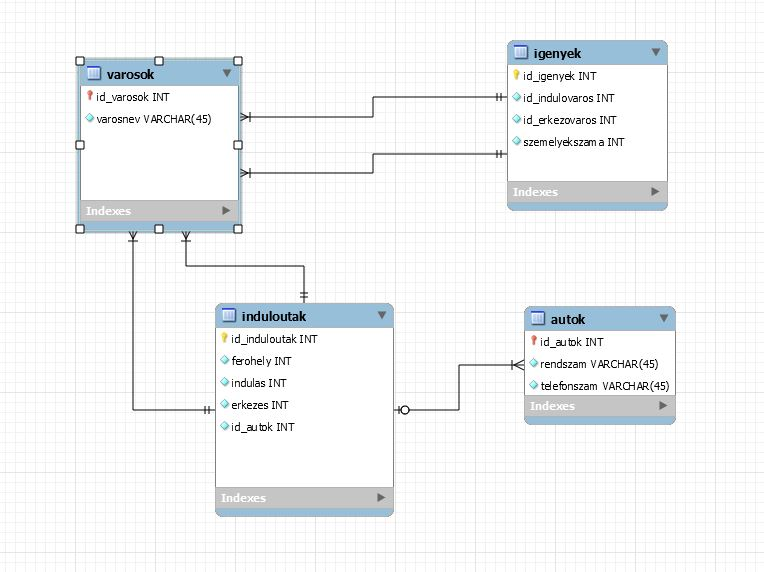
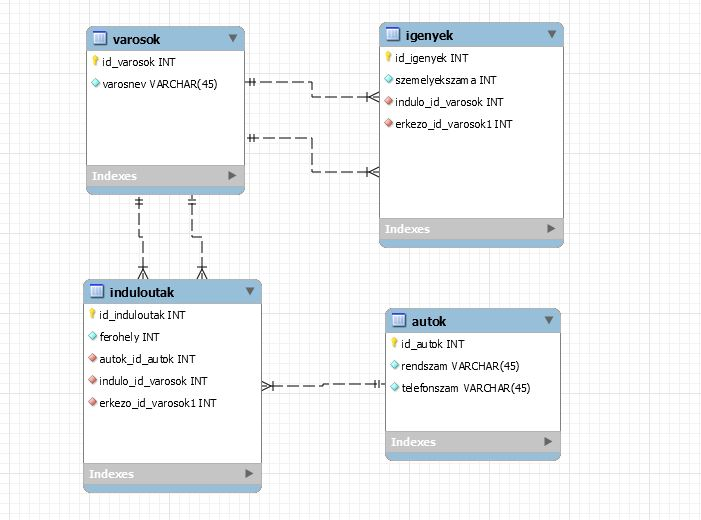
mukodik az adtabzis letrehozas!!!

diff --git a/modulzaro/modulzaro/src/modulzaro/ablak.java b/modulzaro/modulzaro/src/modulzaro/ablak.java
@@ -3,6 +3,7 @@ package modulzaro;
 
 import java.awt.Color;
 import java.io.IOException;
+import java.sql.SQLException;
 import java.util.logging.Level;
 import java.util.logging.Logger;
 import javax.swing.JComboBox;
@@ -322,6 +323,11 @@ public class ablak extends javax.swing.JFrame {
         jLabel5.setText("jLabel5");
 
         jButton2.setText("Adatbázis létrehozása");
+        jButton2.addActionListener(new java.awt.event.ActionListener() {
+            public void actionPerformed(java.awt.event.ActionEvent evt) {
+                jButton2ActionPerformed(evt);
+            }
+        });
 
         javax.swing.GroupLayout jPanel5Layout = new javax.swing.GroupLayout(jPanel5);
         jPanel5.setLayout(jPanel5Layout);
@@ -347,8 +353,8 @@ public class ablak extends javax.swing.JFrame {
                 .addGap(18, 18, 18)
                 .addGroup(jPanel5Layout.createParallelGroup(javax.swing.GroupLayout.Alignment.LEADING)
                     .addComponent(jButton2)
-                    .addComponent(jLabel5, javax.swing.GroupLayout.PREFERRED_SIZE, 509, javax.swing.GroupLayout.PREFERRED_SIZE))
-                .addContainerGap(37, Short.MAX_VALUE))
+                    .addComponent(jLabel5, javax.swing.GroupLayout.PREFERRED_SIZE, 505, javax.swing.GroupLayout.PREFERRED_SIZE))
+                .addContainerGap(41, Short.MAX_VALUE))
         );
 
         jTabbedPane1.addTab("4.", jPanel5);
@@ -476,7 +482,7 @@ public class ablak extends javax.swing.JFrame {
 
     private void jButton1ActionPerformed(java.awt.event.ActionEvent evt) {//GEN-FIRST:event_jButton1ActionPerformed
         // TODO add your handling code here:
-        
+
         DefaultTableModel model5 = new DefaultTableModel();
         model5 = (DefaultTableModel) jTable5.getModel();
         model5.setRowCount(0);
@@ -486,9 +492,9 @@ public class ablak extends javax.swing.JFrame {
             for (int n = 0; n < autok.length; n++) {
 
                 if (igenyek[i][1].toString().equals(autok[n][0].toString()) && igenyek[i][2].toString().equals(autok[n][1].toString()) && Integer.parseInt(igenyek[i][3]) <= Integer.parseInt(autok[n][4])) {
-                    
-                  model5.addRow(new Object[]{igenyek[i][1],igenyek[i][2],autok[n][2],autok[n][3],igenyek[i][0]});
-                    
+
+                    model5.addRow(new Object[]{igenyek[i][1], igenyek[i][2], autok[n][2], autok[n][3], igenyek[i][0]});
+
                 }
 
             }
@@ -496,6 +502,122 @@ public class ablak extends javax.swing.JFrame {
         }
 
     }//GEN-LAST:event_jButton1ActionPerformed
+
+    private void jButton2ActionPerformed(java.awt.event.ActionEvent evt) {//GEN-FIRST:event_jButton2ActionPerformed
+
+        String Query = "DROP SCHEMA IF EXISTS `telekocsi` ;\n"
+                + "\n"
+                + "-- -----------------------------------------------------\n"
+                + "-- Schema telekocsi\n"
+                + "-- -----------------------------------------------------\n"
+                + "CREATE SCHEMA IF NOT EXISTS `telekocsi` DEFAULT CHARACTER SET utf8 ;\n"
+                + "USE `telekocsi` ;\n"
+                + "\n"
+                + "-- -----------------------------------------------------\n"
+                + "-- Table `telekocsi`.`varosok`\n"
+                + "-- -----------------------------------------------------\n"
+                + "DROP TABLE IF EXISTS `telekocsi`.`varosok` ;\n"
+                + "\n"
+                + "CREATE TABLE IF NOT EXISTS `telekocsi`.`varosok` (\n"
+                + "  `id_varosok` INT NOT NULL AUTO_INCREMENT,\n"
+                + "  `varosnev` VARCHAR(45) NOT NULL,\n"
+                + "  UNIQUE INDEX `varosnev_UNIQUE` (`varosnev` ASC),\n"
+                + "  PRIMARY KEY (`id_varosok`))\n"
+                + "ENGINE = InnoDB;\n"
+                + "\n"
+                + "\n"
+                + "-- -----------------------------------------------------\n"
+                + "-- Table `telekocsi`.`igenyek`\n"
+                + "-- -----------------------------------------------------\n"
+                + "DROP TABLE IF EXISTS `telekocsi`.`igenyek` ;\n"
+                + "\n"
+                + "CREATE TABLE IF NOT EXISTS `telekocsi`.`igenyek` (\n"
+                + "  `id_igenyek` INT NOT NULL AUTO_INCREMENT,\n"
+                + "  `szemelyekszama` INT NOT NULL,\n"
+                + "  `indulo_id_varosok` INT NOT NULL,\n"
+                + "  `erkezo_id_varosok1` INT NOT NULL,\n"
+                + "  PRIMARY KEY (`id_igenyek`),\n"
+                + "  INDEX `fk_igenyek_varosok_idx` (`indulo_id_varosok` ASC),\n"
+                + "  INDEX `fk_igenyek_varosok1_idx` (`erkezo_id_varosok1` ASC),\n"
+                + "  CONSTRAINT `fk_igenyek_varosok`\n"
+                + "    FOREIGN KEY (`indulo_id_varosok`)\n"
+                + "    REFERENCES `telekocsi`.`varosok` (`id_varosok`)\n"
+                + "    ON DELETE NO ACTION\n"
+                + "    ON UPDATE NO ACTION,\n"
+                + "  CONSTRAINT `fk_igenyek_varosok1`\n"
+                + "    FOREIGN KEY (`erkezo_id_varosok1`)\n"
+                + "    REFERENCES `telekocsi`.`varosok` (`id_varosok`)\n"
+                + "    ON DELETE NO ACTION\n"
+                + "    ON UPDATE NO ACTION)\n"
+                + "ENGINE = InnoDB;\n"
+                + "\n"
+                + "\n"
+                + "-- -----------------------------------------------------\n"
+                + "-- Table `telekocsi`.`autok`\n"
+                + "-- -----------------------------------------------------\n"
+                + "DROP TABLE IF EXISTS `telekocsi`.`autok` ;\n"
+                + "\n"
+                + "CREATE TABLE IF NOT EXISTS `telekocsi`.`autok` (\n"
+                + "  `id_autok` INT NOT NULL AUTO_INCREMENT,\n"
+                + "  `rendszam` VARCHAR(45) NOT NULL,\n"
+                + "  `telefonszam` VARCHAR(45) NOT NULL,\n"
+                + "  PRIMARY KEY (`id_autok`))\n"
+                + "ENGINE = InnoDB;\n"
+                + "\n"
+                + "\n"
+                + "-- -----------------------------------------------------\n"
+                + "-- Table `telekocsi`.`induloutak`\n"
+                + "-- -----------------------------------------------------\n"
+                + "DROP TABLE IF EXISTS `telekocsi`.`induloutak` ;\n"
+                + "\n"
+                + "CREATE TABLE IF NOT EXISTS `telekocsi`.`induloutak` (\n"
+                + "  `id_induloutak` INT NOT NULL AUTO_INCREMENT,\n"
+                + "  `ferohely` INT NOT NULL,\n"
+                + "  `autok_id_autok` INT NOT NULL,\n"
+                + "  `indulo_id_varosok` INT NOT NULL,\n"
+                + "  `erkezo_id_varosok1` INT NOT NULL,\n"
+                + "  PRIMARY KEY (`id_induloutak`),\n"
+                + "  INDEX `fk_induloutak_autok1_idx` (`autok_id_autok` ASC),\n"
+                + "  INDEX `fk_induloutak_varosok1_idx` (`indulo_id_varosok` ASC),\n"
+                + "  INDEX `fk_induloutak_varosok2_idx` (`erkezo_id_varosok1` ASC),\n"
+                + "  CONSTRAINT `fk_induloutak_autok1`\n"
+                + "    FOREIGN KEY (`autok_id_autok`)\n"
+                + "    REFERENCES `telekocsi`.`autok` (`id_autok`)\n"
+                + "    ON DELETE NO ACTION\n"
+                + "    ON UPDATE NO ACTION,\n"
+                + "  CONSTRAINT `fk_induloutak_varosok1`\n"
+                + "    FOREIGN KEY (`indulo_id_varosok`)\n"
+                + "    REFERENCES `telekocsi`.`varosok` (`id_varosok`)\n"
+                + "    ON DELETE NO ACTION\n"
+                + "    ON UPDATE NO ACTION,\n"
+                + "  CONSTRAINT `fk_induloutak_varosok2`\n"
+                + "    FOREIGN KEY (`erkezo_id_varosok1`)\n"
+                + "    REFERENCES `telekocsi`.`varosok` (`id_varosok`)\n"
+                + "    ON DELETE NO ACTION\n"
+                + "    ON UPDATE NO ACTION)\n"
+                + "ENGINE = InnoDB;";
+
+        //feldolgozzuk az sql utasítást külön stringekké , hogy végre tudja egyszrre hajtani a satatement
+        csvtomultiarray sql = new csvtomultiarray();
+        String[] sqluti = sql.sqlfeldolgozo(Query);
+
+        try {
+
+            sqlconn con = new sqlconn("com.mysql.jdbc.driver", "jdbc:mysql://localhost/", "root", "");
+
+            for (int i = 0; i < sqluti.length; i++) {
+
+                con.feltolt(sqluti[i]);
+            }
+
+        } catch (ClassNotFoundException ex) {
+            Logger.getLogger(ablak.class.getName()).log(Level.SEVERE, null, ex);
+        } catch (SQLException ex) {
+            Logger.getLogger(ablak.class.getName()).log(Level.SEVERE, null, ex);
+        }
+
+
+    }//GEN-LAST:event_jButton2ActionPerformed
 
     //a találatok keresése és táblába tétele
     public void eredmenytablaba(String indulo, String erkezo) {

diff --git a/modulzaro/modulzaro/src/modulzaro/sqlconn.java b/modulzaro/modulzaro/src/modulzaro/sqlconn.java
@@ -1,0 +1,54 @@
+/*
+ * To change this license header, choose License Headers in Project Properties.
+ * To change this template file, choose Tools | Templates
+ * and open the template in the editor.
+ */
+package modulzaro;
+
+import java.sql.Connection;
+import java.sql.DriverManager;
+import java.sql.ResultSet;
+import java.sql.SQLException;
+import java.sql.Statement;
+
+/**
+ *
+ * @author gabor_hanacsek
+ */
+public class sqlconn {
+
+    String driver;
+    String url;
+    String username;
+    String password;
+    ResultSet rs;
+    Connection conn = null;
+    Statement stmt = null;
+
+    sqlconn(String driver, String url, String username, String password) throws ClassNotFoundException, SQLException {
+
+        this.driver = driver;
+        this.url = url;
+        this.username = username;
+        this.password = password;
+        Class.forName("com.mysql.jdbc.Driver");
+        conn = DriverManager.getConnection(url, username, password);
+        stmt = conn.createStatement();
+
+    }
+
+    public Object lekerdez(String query) throws SQLException, ClassNotFoundException, Exception {
+
+        rs = stmt.executeQuery(query);
+
+        return rs;
+
+    }
+
+    public void feltolt(String Query) throws SQLException, ClassNotFoundException {
+
+        stmt.executeUpdate(Query);
+
+    }
+
+}

diff --git a/modulzaro/modulzaro/src/modulzaro/csvtomultiarray.java b/modulzaro/modulzaro/src/modulzaro/csvtomultiarray.java
@@ -21,11 +21,12 @@ public class csvtomultiarray {
 
     private List<String[]> sorok = new ArrayList<String[]>();
     private String sor;
+    private String[] utasitasok;
 
     @SuppressWarnings("empty-statement")
 
     public String[][] feldolgoz(String filename, String c) throws FileNotFoundException, IOException {
-        
+
         sor = "";
         sorok.clear();
 
@@ -37,10 +38,17 @@ public class csvtomultiarray {
 
         }
 
-// átkonvertáljuk a listánkat String tömbbé
         String[][] tomb = new String[sorok.size()][0];
         sorok.toArray(tomb);
         return tomb;
+
+    }
+
+    public String[] sqlfeldolgozo(String SQLutasitas) {
+
+        utasitasok = SQLutasitas.split(";");
+
+        return utasitasok;
 
     }
 
